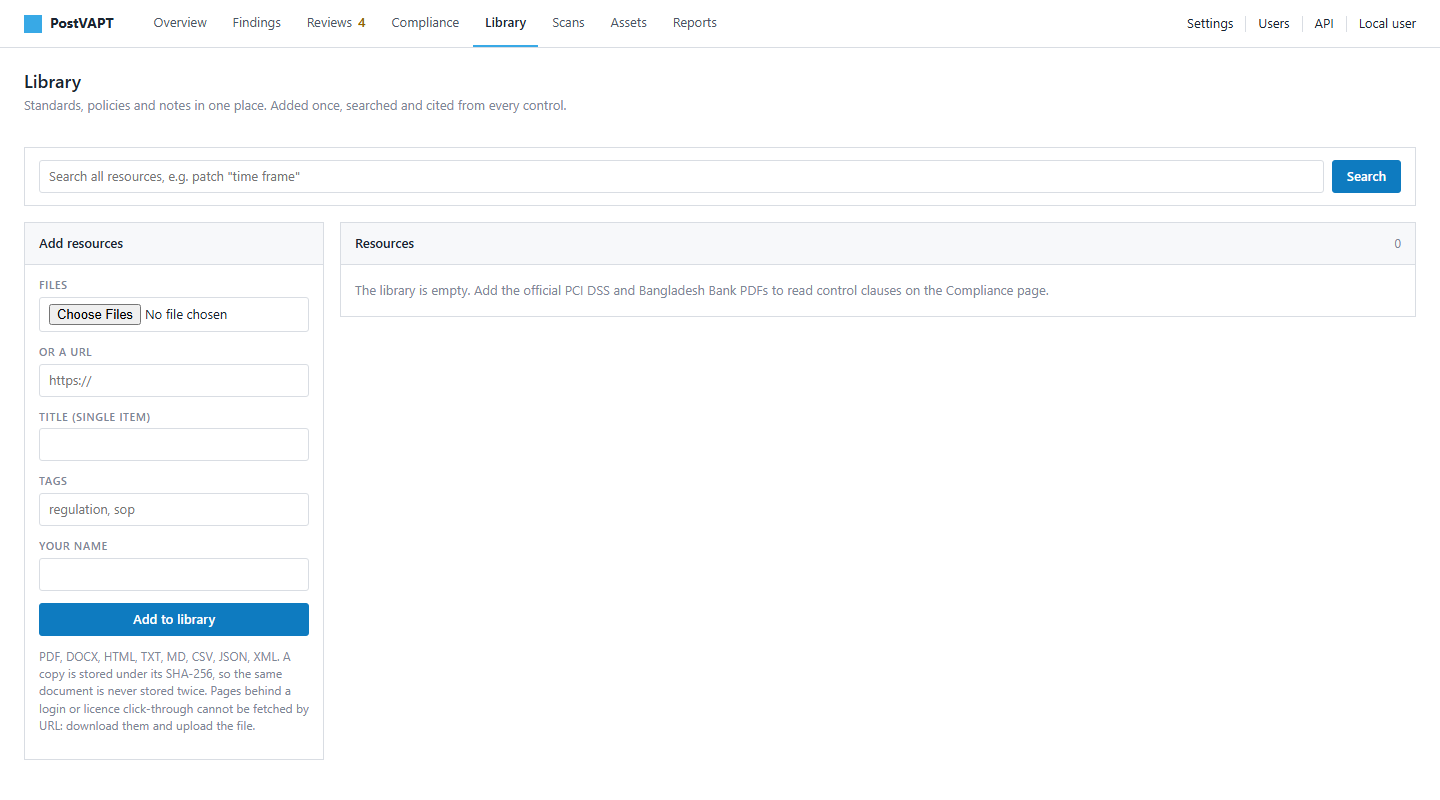
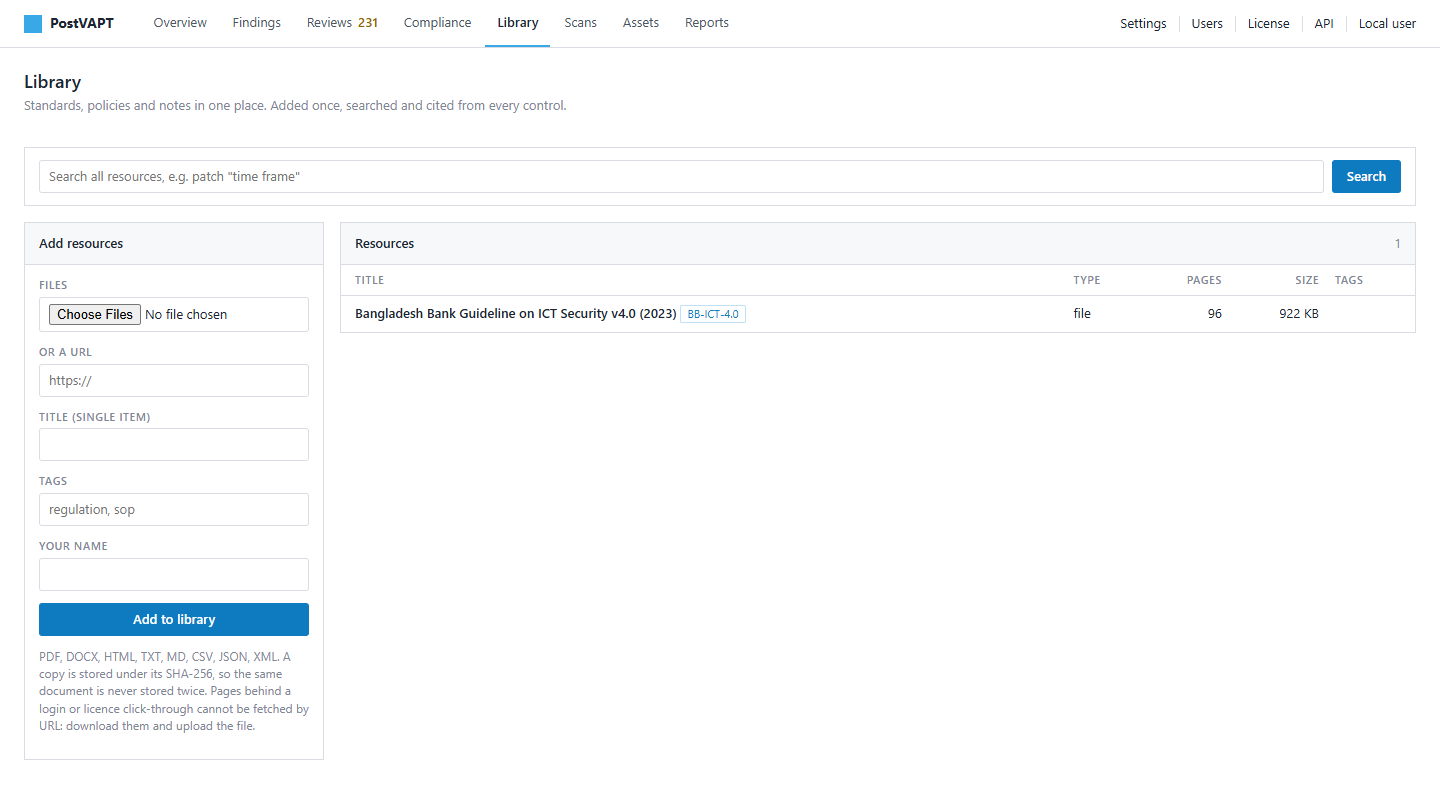
Docs: replace demo screenshots with real screenshots from a test lab
All 13 screenshots now come from a real PostVAPT installation that scanned an intentionally vulnerable lab (DVWA, OWASP Juice Shop, nginx) with Nmap, OWASP ZAP, Nuclei and Trivy, including real retests. The license ID on the License page is hidden.

diff --git a/USER_MANUAL.md b/USER_MANUAL.md
@@ -182,7 +182,7 @@ postvapt.exe demo --serve
 ```
 
 Open **http://127.0.0.1:8000** in your browser. Press `Ctrl + C` in the black
-window to stop the demo. All pictures in this manual come from the demo.
+window to stop the demo. The pictures in this manual were taken from a real installation that scanned an intentionally vulnerable test lab, not from the demo.
 
 ### Step 5: Activate your key
 
